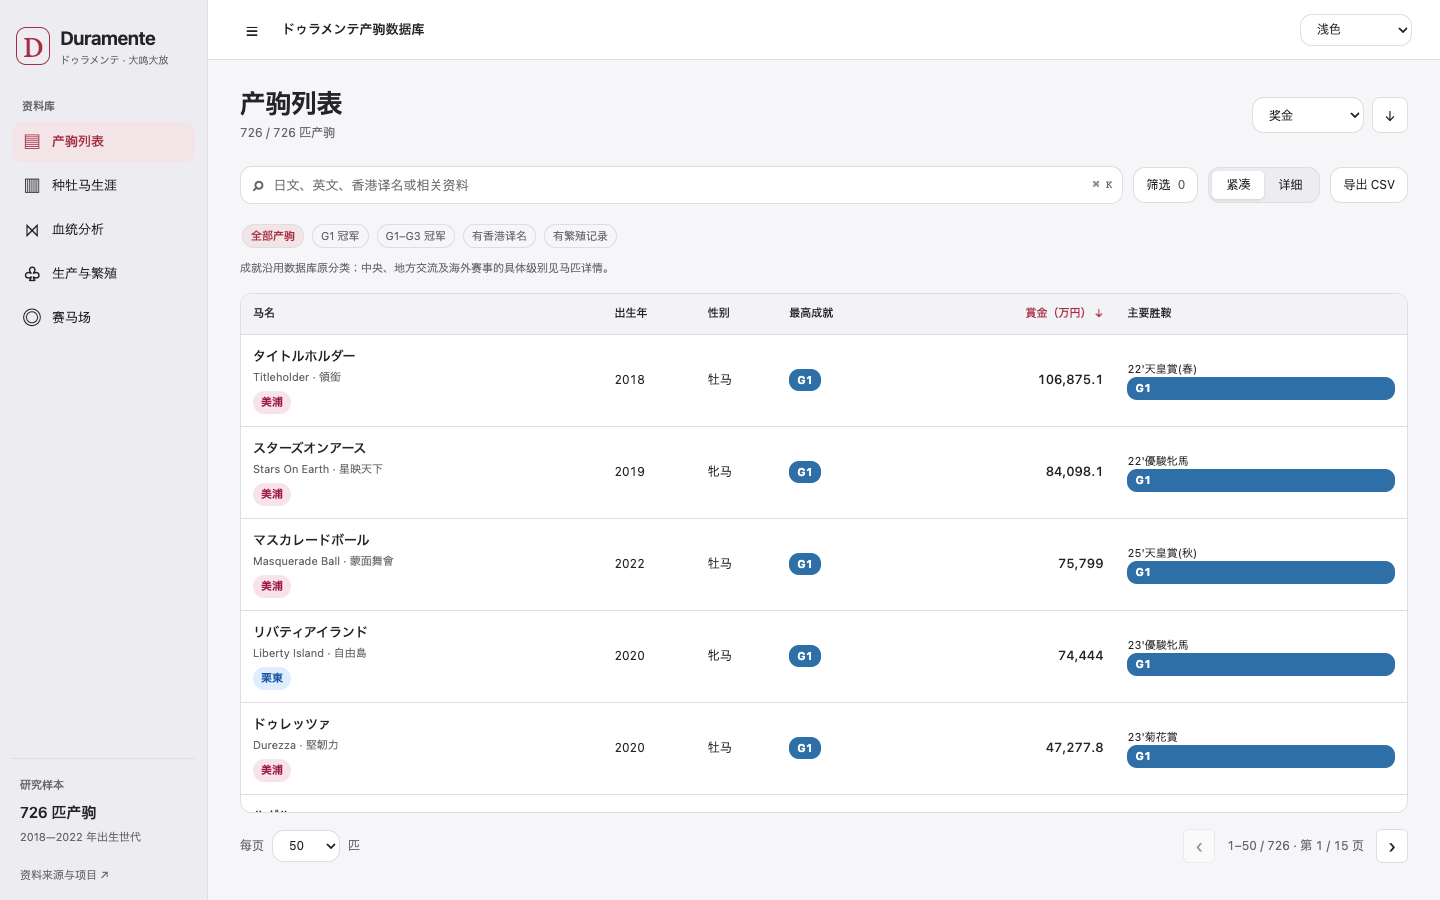
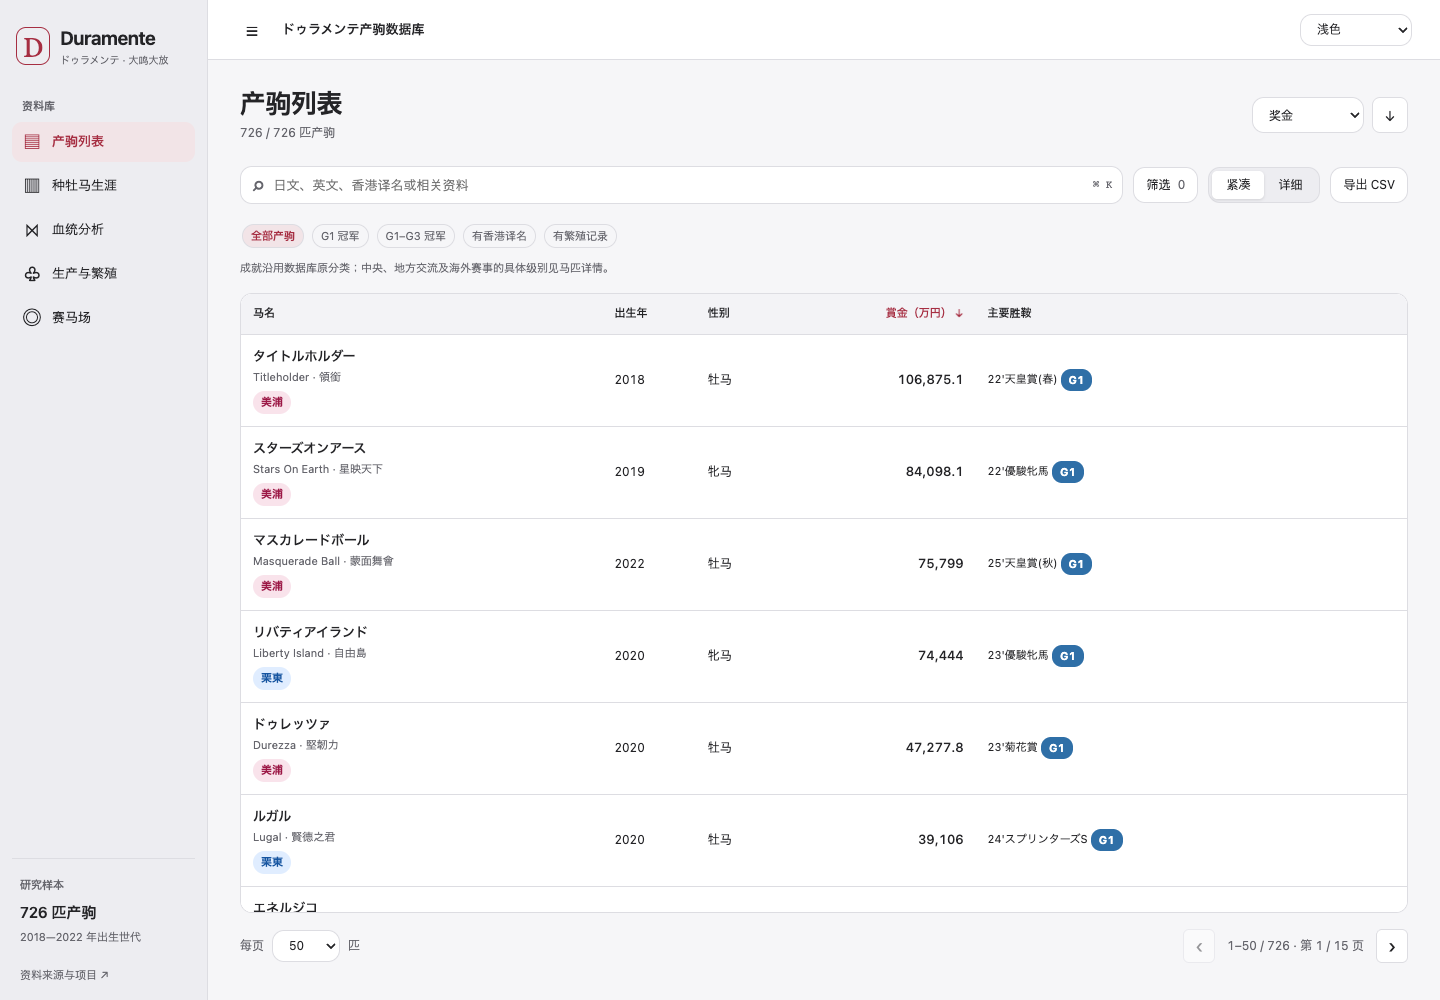
Fix racing badges, synchronized A/B selection and win-scaled map bubbles

diff --git a/app.js b/app.js
@@ -4628,7 +4628,7 @@ async function loadHorses() {
     els.resultCount.textContent = `${Number(data.total).toLocaleString('zh-CN')} / ${Number(state.allTotal || data.total).toLocaleString('zh-CN')} 匹产驹`;
     renderActiveFilters();
     const empty = '<div class="empty-state"><strong>没有符合条件的产驹</strong><p>试试其他名称，或移除部分筛选条件。</p><button type="button" data-clear-filters>清除全部筛选</button></div>';
-    els.horseRows.innerHTML = renderProgenyRows(items, { regionBadge, lineageBadge, ownerCell }) || `<tr><td colspan="13">${empty}</td></tr>`;
+    els.horseRows.innerHTML = renderProgenyRows(items, { regionBadge, lineageBadge, ownerCell }) || `<tr><td colspan="12">${empty}</td></tr>`;
     els.horseCards.innerHTML = renderHorseCards(items) || empty;
     currentHorseIds = items.map(horse => String(horse.id));
     horseSequenceCache = { key: '', ids: [] };
@@ -4641,7 +4641,7 @@ async function loadHorses() {
     console.error('List load failed', error);
     els.resultCount.textContent = '资料暂时无法载入';
     const message = '<div class="load-error" role="alert">资料暂时无法载入。<button type="button" data-retry-list>重新载入</button></div>';
-    els.horseRows.innerHTML = `<tr><td colspan="13">${message}</td></tr>`;
+    els.horseRows.innerHTML = `<tr><td colspan="12">${message}</td></tr>`;
     els.horseCards.innerHTML = message;
   } finally {
     if (request === listRequest) { table.setAttribute('aria-busy', 'false'); els.horseCards.setAttribute('aria-busy', 'false'); }
@@ -4900,6 +4900,6 @@ init().catch((error) => {
   console.error("Database load failed", error);
   const content = document.getElementById(`${state.view}Content`);
   if (content) content.innerHTML = '<div class="load-error" role="alert">资料暂时无法载入。<button type="button" onclick="window.location.reload()">重新载入</button></div>';
-  els.horseRows.innerHTML = `<tr><td colspan="13"><div class="load-error">资料暂时无法载入。<button class="reset-filters" type="button" onclick="window.location.reload()">重新载入</button></div></td></tr>`;
+  els.horseRows.innerHTML = `<tr><td colspan="12"><div class="load-error">资料暂时无法载入。<button class="reset-filters" type="button" onclick="window.location.reload()">重新载入</button></div></td></tr>`;
   els.horseCards.innerHTML = `<div class="load-error">资料暂时无法载入。<button type="button" onclick="window.location.reload()">重新载入</button></div>`;
 });

diff --git a/styles/research-workspace.css b/styles/research-workspace.css
@@ -5,3 +5,10 @@
 .map-tools button {border-radius:10px;}.course-horse-list {max-height:240px;overflow:auto;display:grid;gap:3px;}.course-horse-list button {text-align:left;min-height:40px;margin:0;}.study-evidence .chart-card-head {padding-right:0;}.study-evidence .chart-card-head .chart-actions {position:static;display:flex;justify-content:flex-end;margin:6px 0 0;}.study-evidence .chart-card-head h3 {padding-right:0;}
 .map-workbench button {border-radius:10px;}.map-list-rows button {border-radius:12px;}.map-detail:focus {outline:2px solid var(--accent);outline-offset:3px;}
 .map-canvas-card,.map-detail {scroll-margin-top:72px;}
+
+.study-selection {display:flex;flex-wrap:wrap;gap:8px 18px;margin:0 20px 8px;font-size:12px;}
+.selection-key {overflow-wrap:anywhere;}
+.selection-key b,.compare-token {display:inline-flex;align-items:center;justify-content:center;min-width:24px;height:24px;border-radius:50%;background:var(--compare-a);color:#fff;font-size:12px;font-weight:700;}
+.selection-b b,.comparison-b .compare-token {background:var(--compare-b);border-radius:5px;}
+.comparison-values section {border-top:3px solid var(--compare-a);padding-top:4px;}
+.comparison-values .comparison-b {border-top-color:var(--compare-b);}

diff --git a/chart-colors.js b/chart-colors.js
@@ -32,7 +32,8 @@
   const grades=Object.freeze({G1:'#2f6fa7',G2:'#c73545',G3:'#3f8f68'});
   const research=Object.freeze({sequential:['#f5f5f7','#d8a0a6','#a51d30'],diverging:['#587f7a','#f5f1ed','#9b4266'],grades});
   const ui=Object.freeze({duramente:'#b42335',primary:'#b42335',secondary:'#d77c88',plum:'#796584',rose:'#cc7785',coral:'#cb8064',gold:'#b88736',jra:'#b42335',nar:'#43877a',overseas:'#b88736',raceLine:'#4e79a7',average:'#8b8b91',blue:'#4e79a7',teal:'#43877a',green:'#43877a',muted:'#98989f',soft:'#f5f5f7',gray:'#98989f',negative:'#796584'});
-  const api={bms,grades,ui,crops,tint,family,familyIdentity,ink,research};
+  const comparison=Object.freeze({a:'#9d3154',b:'#426db3',neutral:'#a4a4ad'});
+  const api={bms,grades,ui,comparison,crops,tint,family,familyIdentity,ink,research};
   root.DuramenteColors=api;
   if(typeof module!=='undefined')module.exports=api;
 })(typeof window!=='undefined'?window:globalThis);

diff --git a/styles/progeny.css b/styles/progeny.css
@@ -38,11 +38,10 @@
 .progeny-table th:first-child { width: 31%; }
 .progeny-table th:nth-child(2) { width: 8%; }
 .progeny-table th:nth-child(3) { width: 7%; }
-.progeny-table th:nth-child(4) { width: 12%; }
 .progeny-table .money-heading { width: 17%; text-align: right; }
 .progeny-table td.money { text-align: right; white-space: nowrap; font-size: 13px; font-weight: 500; color: var(--ink); }
 .progeny-table .record-cell { min-width: 0; white-space: normal; font-size: 11px; overflow-wrap: anywhere; }
-.progeny-table .record-cell span { display: block; }
+.progeny-table .record-cell > .major-win, .progeny-table .record-cell > .muted { display: block; }
 .progeny-table tbody tr { cursor: default; }
 .progeny-table tbody tr:hover { background: var(--soft); }
 .progeny-table tbody tr:focus-within { background: var(--selection); }

diff --git a/styles/racing.css b/styles/racing.css
@@ -17,7 +17,7 @@
 .region.miho { background: var(--affiliation-miho-bg); color: var(--affiliation-miho-ink); }
 .region.ritto { background: var(--affiliation-ritto-bg); color: var(--affiliation-ritto-ink); }
 .region.overseas { border: 1px dashed var(--muted); }
-.grade-pill { display: inline-flex; align-items: center; padding: 3px 8px; border-radius: 10px; font-size: 11px; font-weight: 700; white-space: nowrap; }
+.grade-pill { display: inline-flex; flex: 0 0 auto; vertical-align: middle; align-items: center; padding: 3px 8px; border-radius: 10px; font-size: 11px; font-weight: 700; white-space: nowrap; }
 .grade-g1 { background: var(--grade-g1, #2f6fa7); color: white; }
 .grade-g2 { background: var(--grade-g2, #c73545); color: white; }
 .grade-g3 { background: var(--grade-g3, #3f8f68); color: #101113; }

diff --git a/index.html b/index.html
@@ -213,7 +213,6 @@
               <th class="sticky-horse-head"><button class="sort-heading" type="button" data-table-sort="name">马名 <span aria-hidden="true"></span></button></th>
               <th><button class="sort-heading" type="button" data-table-sort="birth_year">出生年 <span aria-hidden="true"></span></button></th>
               <th scope="col">性别</th>
-              <th scope="col">最高成就</th>
               <th scope="col" class="detail-only">毛色</th>
               <th scope="col" class="detail-only">所属</th>
               <th scope="col" class="detail-only">母马</th>

diff --git a/docs/qa/release/UI-CORRECTIONS.md b/docs/qa/release/UI-CORRECTIONS.md
@@ -1,0 +1,44 @@
+# PR #1 定向 UI 修正验收
+
+2026-10-16。范围仅为等级展示、A/B 选中状态与赛马场圆形气泡；保留现有架构、功能和数据。PR 等待人工确认，未合并 main。
+
+## 展示修正
+
+| 原来 | 现在 |
+|---|---|
+| 独立「最高成就」列/字段，再重复显示主要胜鞍等级 | 列表、Quick View、Full Profile 只在主要胜鞍后显示赛事等级 |
+| record-cell 内所有 span 被设为 block，等级横向拉伸 | 仅直接文本容器使用 block，等级为紧凑 inline-flex；G1 蓝、G2 红、G3 绿 |
+| 普通母父点使用相近红色，A/B 无明显对应关系 | 普通点为中性灰；A 酒红实心、B 蓝色外圈，带字母与同色比较卡片；六大母父系保留原语义色 |
+| 地图混用圆形、绿色菱形、紫色聚合 | 单场与聚合均为圆形；胜场气泡使用同一色系，聚合用中性虚线圆及场数 |
+
+赛事等级只取具体赛事标注，不使用 achievement_class 推断。两条已有摘要的通用 G 标注按本库获胜记录纠正为 Jpn：Badenweiler 的 2023 佐賀記念为 JpnIII（race ID 202355020909），Valle de la Luna 的 2022 JBCレディスクラシック为 JpnI（202235110310）。[NAR 官方佐賀記念报道](https://www.keiba.go.jp/furlong/2023/20230209_02/)亦标明 JpnIII。原始 JSON 未更改；无可靠标注的主要胜鞍保持纯文字。
+
+气泡直径为 `sqrt(14² + (46² - 14²) × 胜场 / 全部赛马场最大胜场)`，即最小可见面积以上的面积与胜场成比例，零胜仍可见。所有筛选使用同一范围，选中只改变边框，不改变大小。聚合直径固定 38px，数字仅表示赛马场数量；点击放大并提供具体场名按钮，继续选择单场。实际统计和坐标不变。
+
+## 真实浏览器代表截图
+
+以下六图由 Chromium 在 GitHub Pages 子路径下生成并逐张检查。Detailed 图已横向滚动到主要胜鞍列，固定马名仍可见。A/B 图包含字母、图例、下拉菜单及对应卡片；手机地图包含聚合、不同大小气泡与东京资料卡。
+
+- [Compact List](list-desktop.png)
+- [Detailed List](list-detailed.png)
+- [Quick View：390px 深色](profile-quick.png)
+- [Full Profile：1440px 深色](profile-full.png)
+- [A/B Comparison](pedigree-desktop.png)
+- [Mobile Racecourse Map：390px 深色](map-mobile-dark.png)
+
+为避免随站点分发第三方照片，以上 Profile 截图主动使用图片失败回退；真实照片加载和切换在独立测试中正常通过。其他宽度/主题的 QA 图片仅留临时目录，未加入仓库。
+
+## 验证结果
+
+- Node 27 项、Python 30 项、6 个原有图表/数据校验脚本通过；模块语法与 diff 检查通过。
+- Chromium 与 WebKit 各通过：通用 26 组、Profile 8 组、研究流程 13 条，以及照片/文案专项。
+- 新增专项在两种引擎各通过 390、430、768、1440px × 深浅色共 8 组；覆盖下拉选择/真实图形点选与 A/B 卡片同步、重合点保持原坐标和双字母、圆形标记、胜场大小顺序、聚合数量与逐场选择、无水平溢出。
+- G1（Titleholder）、G2（Sing That Song）、G3（Arrivo）、Jpn（Badenweiler）、障碍（Dinasta）、Open（Douradores）、无主要胜鞍（Shonan Akidon）均检查 Compact、Detailed、Quick、Full 与 390/1440px；所有可见 badge 为 inline-flex，宽度小于 85px、高度小于 32px。
+- 单元回归逐一核对 726 匹资料中全部现有 achievement_class 筛选结果；字段、筛选、排序能力保留。浏览器原有组合筛选、排序、CSV 和图表下钻回归通过。
+- 两种引擎均成功加载真实外部照片、连续换图 4 次无相邻重复、Quick/Full 切换保持当前图且不新增图片请求。来源新窗口打开对应 netkeiba 照片列表；失败和无目录的紧凑回退通过。
+- WebKit iPhone 13 触控模拟：390/430px × 深浅色共 4 组通过，包括照片、Quick/Full、地图缩放及产驹导航。
+- 全部浏览器套件使用 `/duramente-progeny-database/` 子路径。相对本轮前 `fdb370d`，已跟踪 `data/` 完全无变更，726 匹、69 个官方港译、既有统计定义、Pages 路由保留。
+
+本机 Safari 没有启用远程自动化，未更改其设置。以上 WebKit 和触控模拟不能替代实体 Safari/iPhone 验收；仍待使用者在实际设备确认。
+
+复跑：`npm test`、`npm run test:corrections`；现有套件见 [上一轮发布检查](README.md)。用 `TEST_BROWSER=webkit` 切换浏览器引擎，`TEST_BASE_URL` 指定 Pages 子路径，`TEST_OUTPUT_DIR` 指定仓库外截图目录。

diff --git a/docs/qa/release/README.md b/docs/qa/release/README.md
@@ -1,10 +1,12 @@
 # PR #1 发布检查
 
+最新定向修正见 [等级标签、A/B 与圆形地图验收](UI-CORRECTIONS.md)。当前保留六张本站代表截图；下文是上一轮发布准备记录。
+
 2026-10-16。本轮仅清理发布内容、校对文案与验证兼容性；没有新增产品功能、调整统计计算或重构界面。PR 保持未合并。
 
 ## 清理与文案
 
-- 移除 176 张历史 QA/第三方参考截图和 4 个旧测试结果文件（约 18.7 MB）；只保留以下 3 张不含第三方照片的本站代表图。netkeiba 参考画面与含其照片的界面截图不再随当前版本分发；历史提交未重写。
+- 移除 176 张历史 QA/第三方参考截图和 4 个旧测试结果文件（约 18.7 MB）；当时只保留以下 3 张不含第三方照片的本站代表图。netkeiba 参考画面与含其照片的界面截图不再随当前版本分发；历史提交未重写。
 - 测试截图默认写入已忽略的 `test-results/`，本轮完整结果留在临时目录。设计来源保留文字记录与原网站链接。
 - 战绩完整时使用「胜马率」；未知战绩出现时自动改为「已确认胜马比例」，提示资料不完整，计算细节留在折叠统计说明。标题、坐标轴、指标选择与比较结论一致。
 
